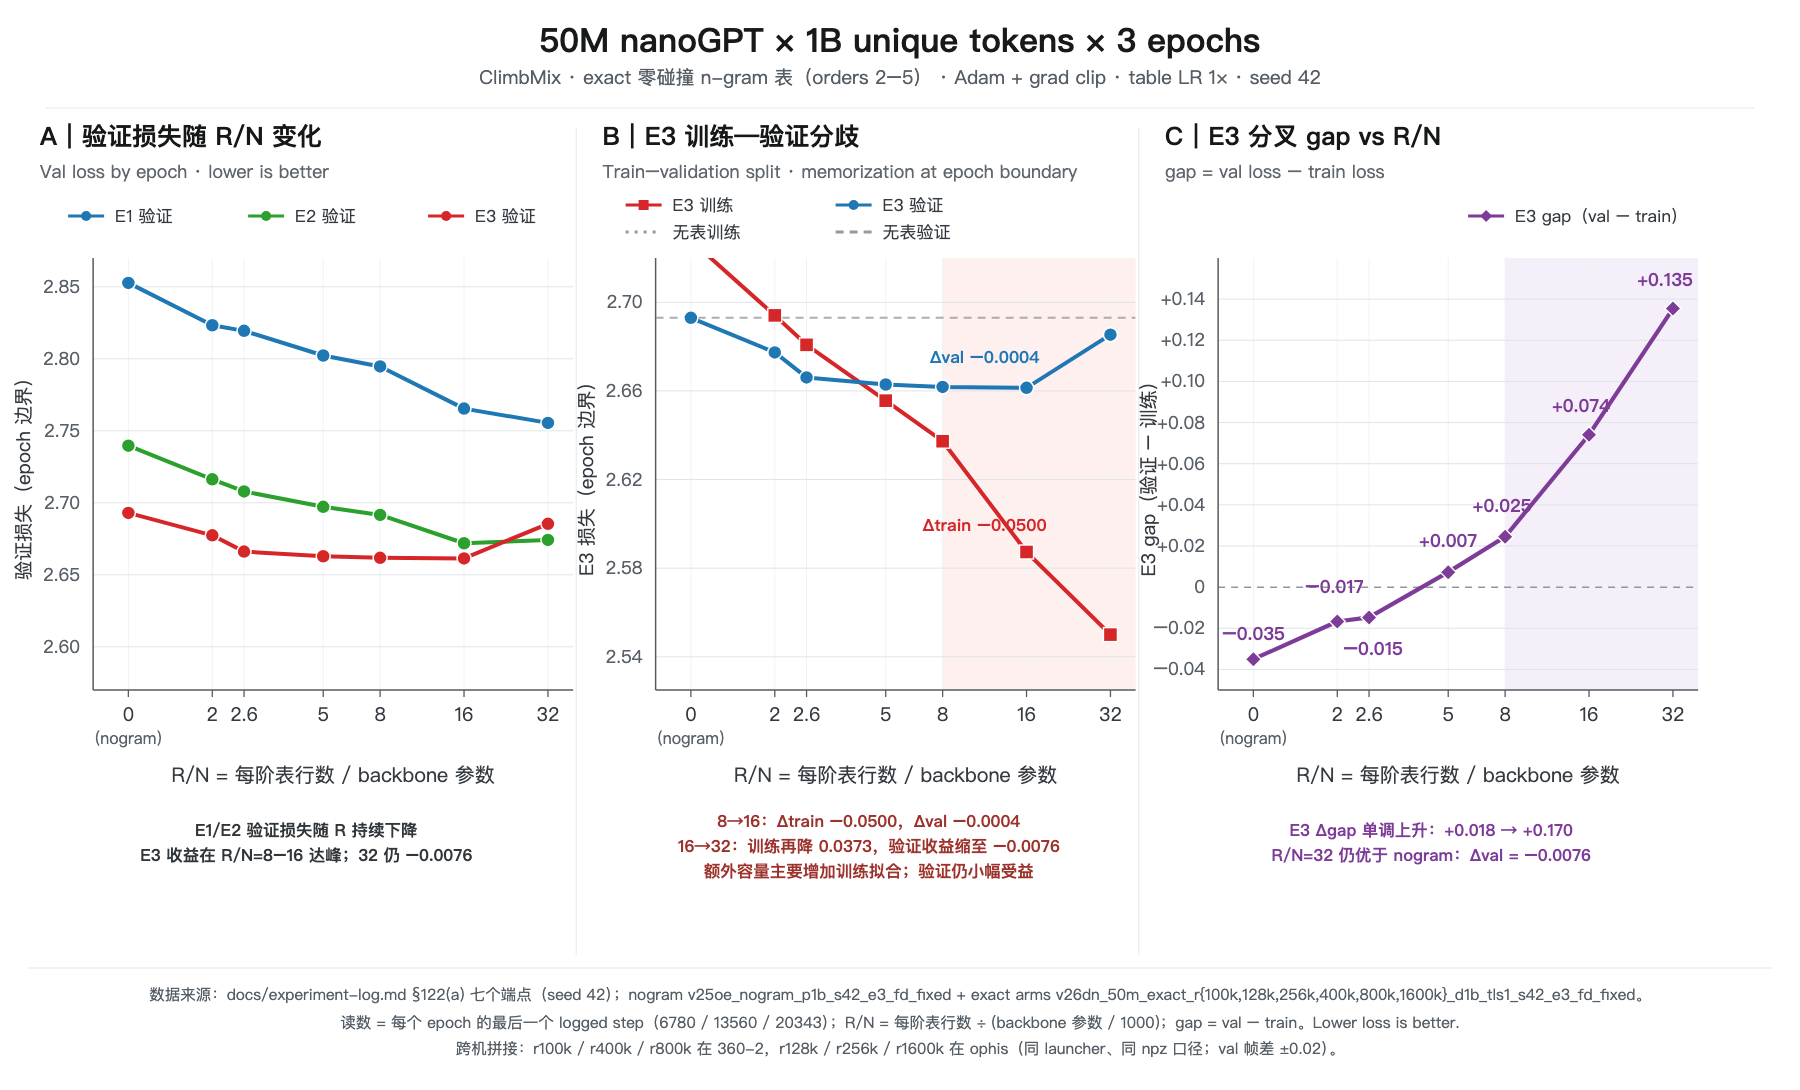
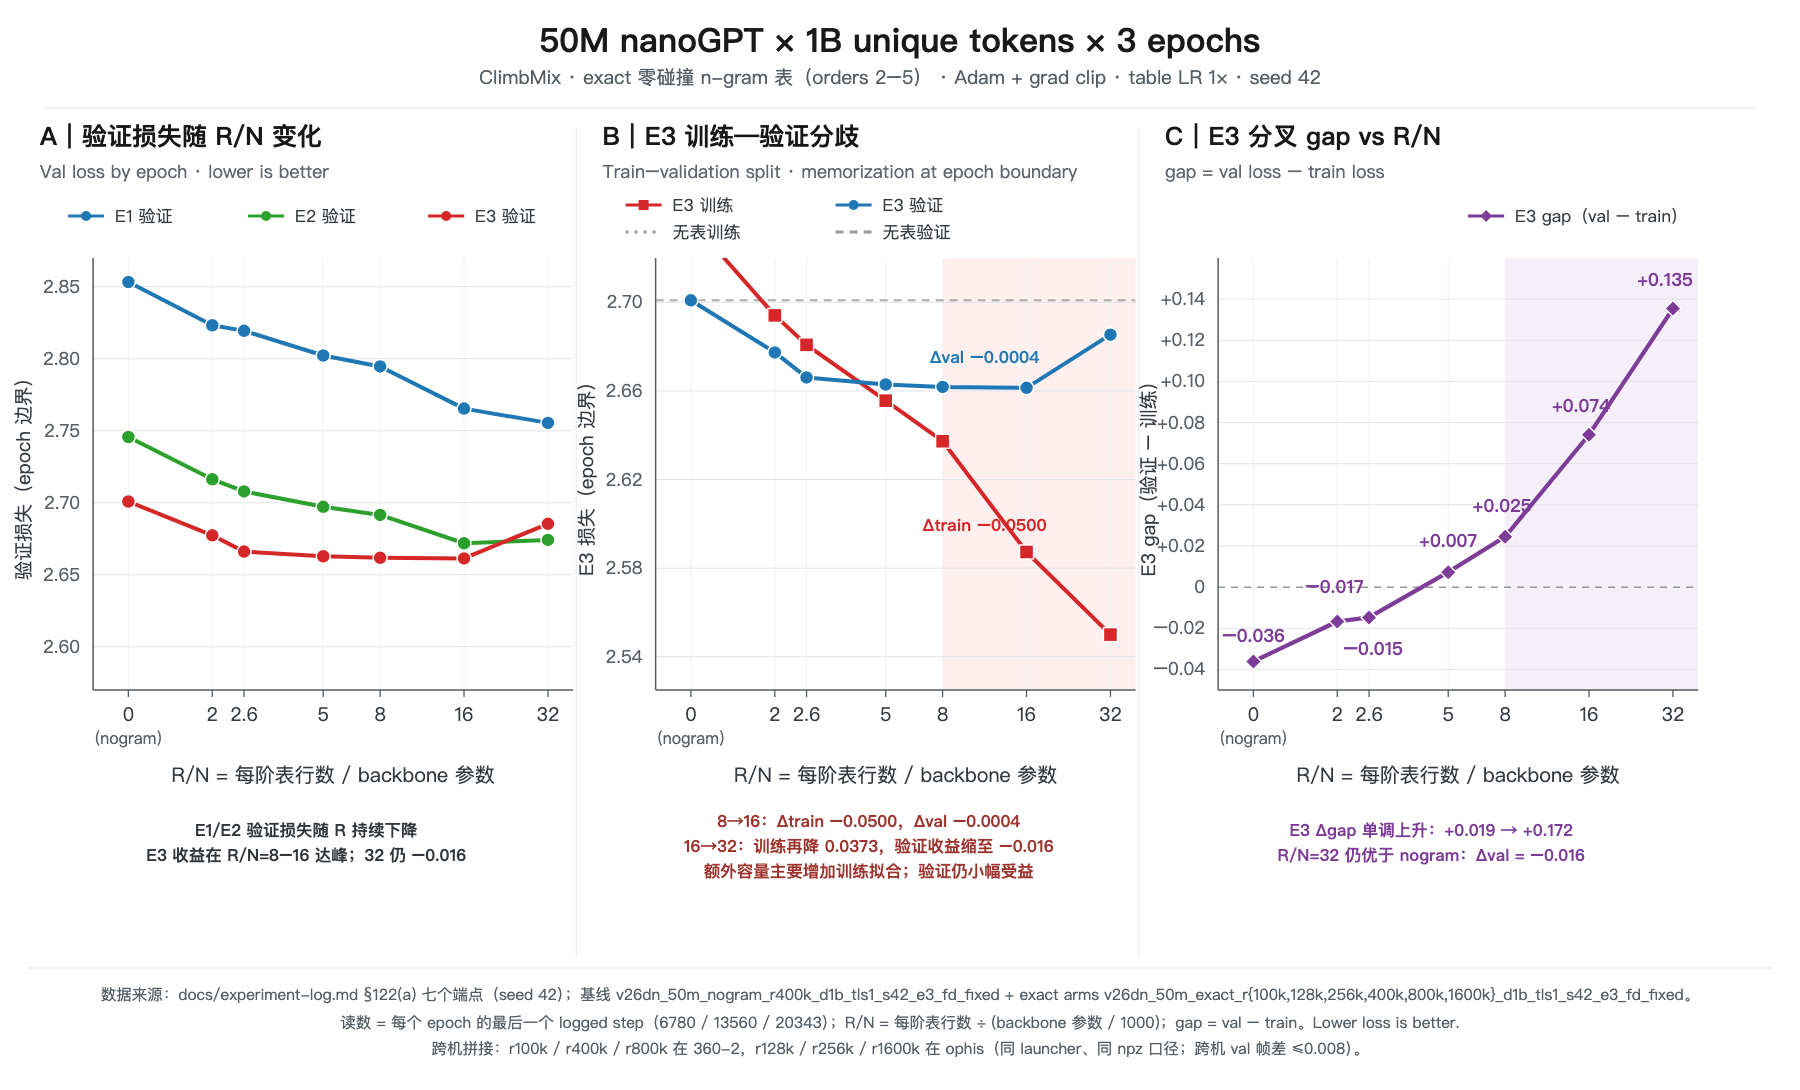
§126(a) 补齐 R-sweep 图页脚：基线名换 v26dn_50m_nogram_r400k_d1b（旧 v25oe 协议）＋跨机 val 帧差改 ≤0.008

diff --git a/docs/plot_scripts/fork_fig_r_sweep_50m_20261021.py b/docs/plot_scripts/fork_fig_r_sweep_50m_20261021.py
@@ -354,16 +354,16 @@ for ratio, gap_exact_value in zip(XS, gap_exact):
 for index, lines, color in [
     (0, [
         "E1/E2 验证损失随 R 持续下降",
-        "E3 收益在 R/N=8–16 达峰；32 仍 −0.0076",
+        "E3 收益在 R/N=8–16 达峰；32 仍 −0.016",
     ], "#31363b"),
     (1, [
         "8→16：Δtrain −0.0500，Δval −0.0004",
-        "16→32：训练再降 0.0373，验证收益缩至 −0.0076",
+        "16→32：训练再降 0.0373，验证收益缩至 −0.016",
         "额外容量主要增加训练拟合；验证仍小幅受益",
     ], "#9d332d"),
     (2, [
-        "E3 Δgap 单调上升：+0.018 → +0.170",
-        "R/N=32 仍优于 nogram：Δval = −0.0076",
+        "E3 Δgap 单调上升：+0.019 → +0.172",
+        "R/N=32 仍优于 nogram：Δval = −0.016",
     ], C_GAP),
 ]:
     y0 = 827 if len(lines) == 3 else 836
@@ -374,7 +374,7 @@ for index, lines, color in [
 svg.append(f'<line x1="{MARGIN_X}" y1="968" x2="{W - MARGIN_X}" y2="968" stroke="#e5e7e9" stroke-width="1.2"/>')
 add_text(
     W / 2, 1000,
-    "数据来源：docs/experiment-log.md §122(a) 七个端点（seed 42）；nogram v25oe_nogram_p1b_s42_e3_fd_fixed + exact arms v26dn_50m_exact_r{100k,128k,256k,400k,800k,1600k}_d1b_tls1_s42_e3_fd_fixed。",
+    "数据来源：docs/experiment-log.md §122(a) 七个端点（seed 42）；基线 v26dn_50m_nogram_r400k_d1b_tls1_s42_e3_fd_fixed + exact arms v26dn_50m_exact_r{100k,128k,256k,400k,800k,1600k}_d1b_tls1_s42_e3_fd_fixed。",
     size=15.5, fill="#555d65", anchor="middle",
 )
 add_text(
@@ -384,7 +384,7 @@ add_text(
 )
 add_text(
     W / 2, 1054,
-    "跨机拼接：r100k / r400k / r800k 在 360-2，r128k / r256k / r1600k 在 ophis（同 launcher、同 npz 口径；val 帧差 ±0.02）。",
+    "跨机拼接：r100k / r400k / r800k 在 360-2，r128k / r256k / r1600k 在 ophis（同 launcher、同 npz 口径；跨机 val 帧差 ≤0.008）。",
     size=15.5, fill="#555d65", anchor="middle",
 )
 svg.append('</svg>')
